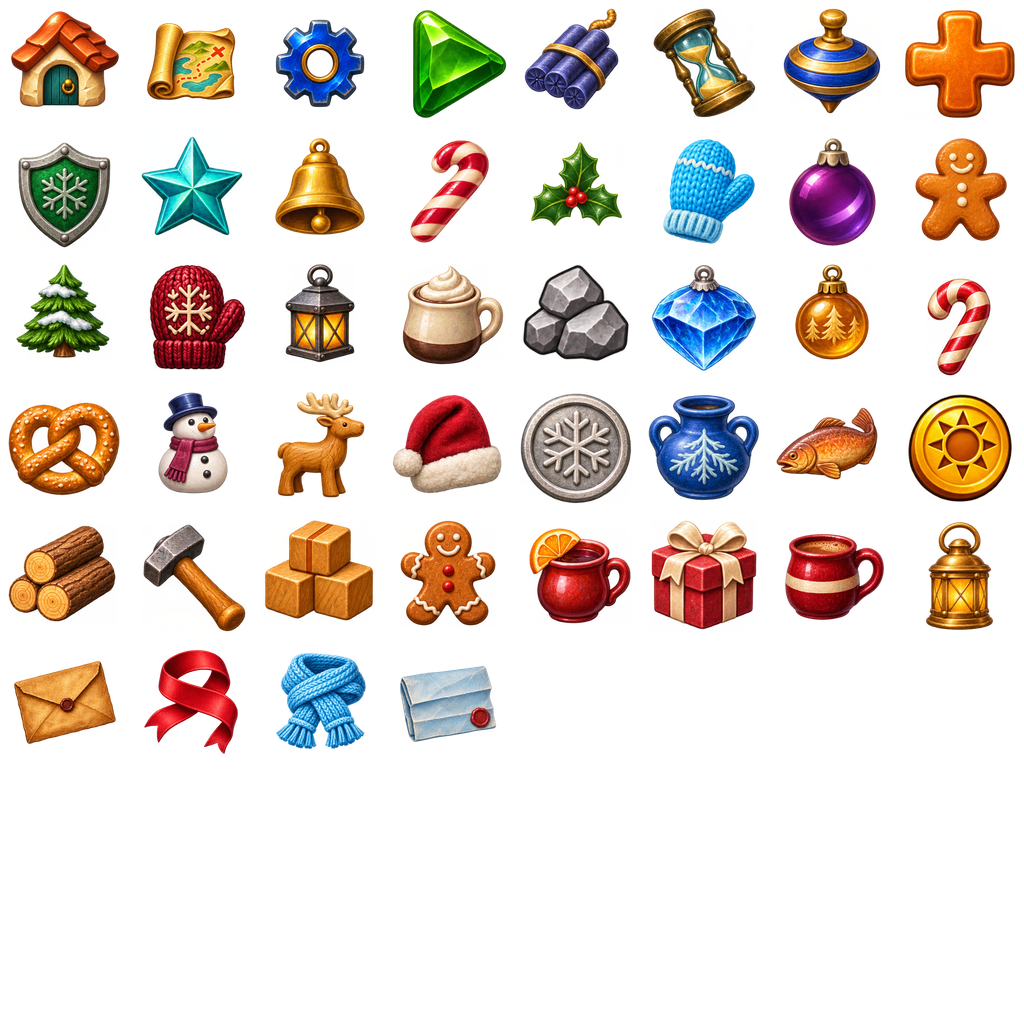
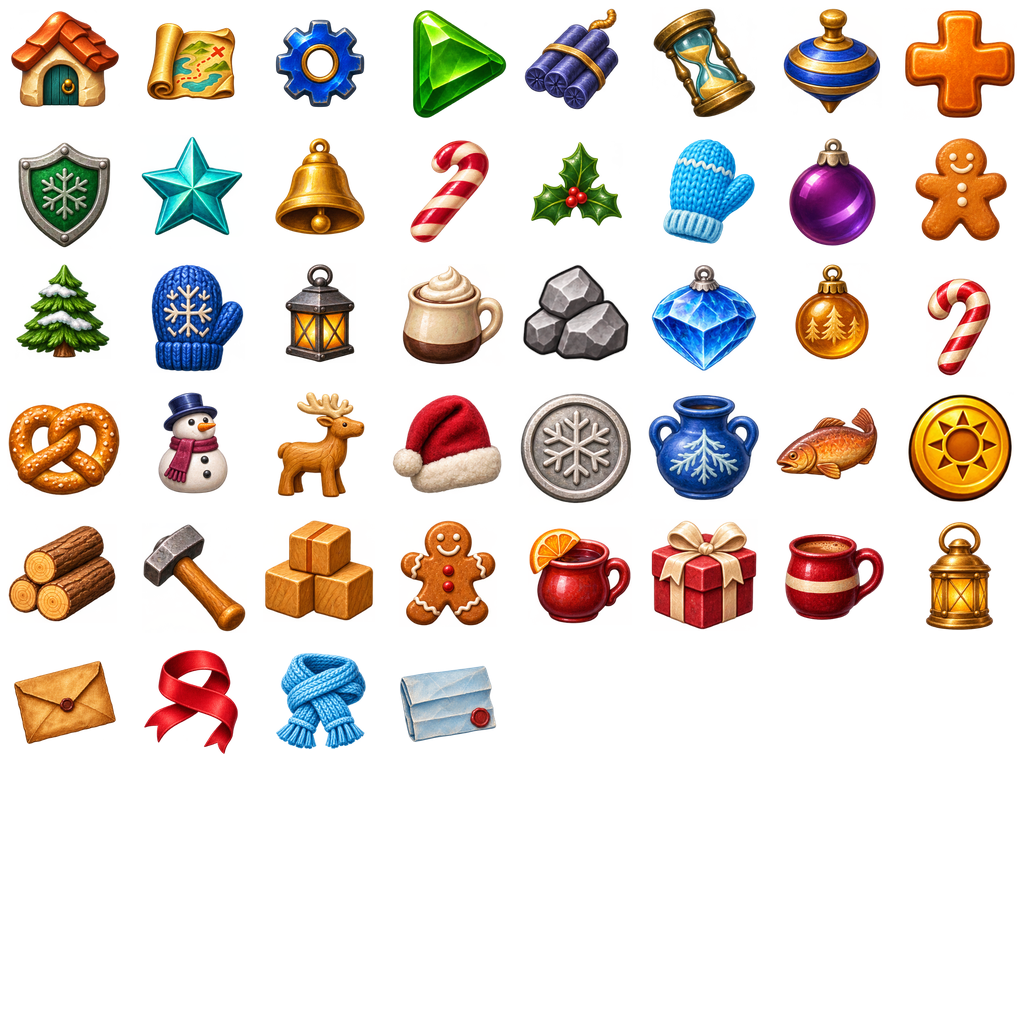
Restore the blue Christmas Market mitten

Changed region(s): [[0.125, 0.25, 0.25, 0.375]]

diff --git a/docs/cradle-of-rome-reference/gem-correspondence.html b/docs/cradle-of-rome-reference/gem-correspondence.html
@@ -179,7 +179,7 @@
 
   <section id="rome-2">
     <h2>Cradle of Rome 2</h2>
-    <p class="description">The sequel sets the purchase order and resource tiers. Christmas Market opens with a snowy fir, a cranberry mitten, silver and gold coins, and an ivory-striped candy cane for score. Mulled wine, gingerbread and cocoa take the cane’s slot in order. Natural pine and slate-gray masonry share the Materials slot. The masonry has the same silhouette as Relic Rush’s cut stone.</p>
+    <p class="description">The sequel sets the purchase order and resource tiers. Christmas Market opens with a snowy fir, a blue knitted mitten, silver and gold coins, and an ivory-striped candy cane for score. Mulled wine, gingerbread and cocoa take the cane’s slot in order. Natural pine and slate-gray masonry share the Materials slot. The masonry has the same silhouette as Relic Rush’s cut stone.</p>
     <div class="table-wrap">
       <table aria-label="Cradle of Rome 2 regular pieces">
         <thead><tr><th scope="col">Cradle of Rome 2</th><th scope="col">Relic Rush</th><th scope="col">Christmas Market</th><th scope="col">Relic Rush mapping</th></tr></thead>
@@ -191,10 +191,10 @@
             <td><span class="status same">Same motif</span><p>Both use a leaf as a score piece.</p></td>
           </tr>
           <tr class="comparison" data-status="same" data-rome-type="2">
-            <th scope="row"><div class="tile"><span class="icon rome" style="--col:1;--row:0" aria-hidden="true"></span><div><strong>Flower</strong><small>Score only · #02</small></div></div></th>
+            <th scope="row"><div class="tile"><span class="icon rome" style="--col:1;--row:0" aria-hidden="true"></span><div><strong>Blue flower</strong><small>Score only · #02</small></div></div></th>
             <td><div class="tile"><span class="icon relic" style="--col:4;--row:4" aria-hidden="true"></span><div><strong>Flower</strong><small>Score only · opening</small></div></div></td>
-            <td><div class="tile"><span class="icon market" style="--col:1;--row:0" aria-hidden="true"></span><div><strong>Knitted mitten</strong><small>Cranberry red · Score only</small><small>Opening</small></div></div></td>
-            <td><span class="status same">Same motif</span><p>Both use a flower as a score piece.</p></td>
+            <td><div class="tile"><span class="icon market" style="--col:1;--row:0" aria-hidden="true"></span><div><strong>Knitted mitten</strong><small>Blue wool · Score only</small><small>Opening</small></div></div></td>
+            <td><span class="status same">Same motif</span><p>Relic Rush keeps the flower. The blue mitten keeps its score role and color.</p></td>
           </tr>
           <tr class="comparison" data-status="same" data-rome-type="3">
             <th scope="row"><div class="tile"><span class="icon rome" style="--col:2;--row:0" aria-hidden="true"></span><div><strong>Silver coin</strong><small>3 Gold · #03</small></div></div></th>
@@ -212,7 +212,7 @@
             <th scope="row"><div class="tile"><span class="icon rome" style="--col:4;--row:0" aria-hidden="true"></span><div><strong>Water bucket</strong><small>3 Food · #05</small></div></div></th>
             <td><div class="tile"><span class="icon relic" style="--col:1;--row:1" aria-hidden="true"></span><div><strong>Water bucket</strong><small>3 Food · Well · exp. 2</small></div></div></td>
             <td><div class="tile"><span class="icon market" style="--col:0;--row:2" aria-hidden="true"></span><div><strong>Mulled wine (Glühwein)</strong><small>Cranberry · 3 Treats</small><small>Welcome arch · wish 2</small></div></div></td>
-            <td><span class="status same">Same motif</span><p>Same motif, yield and Well unlock.</p></td>
+            <td><span class="status same">Same motif</span><p>Relic Rush keeps the Well’s bucket. Christmas Market’s first purchase replaces the candy cane with mulled wine for 3 Treats.</p></td>
           </tr>
           <tr class="comparison" data-status="same" data-rome-type="6">
             <th scope="row"><div class="tile"><span class="icon rome" style="--col:5;--row:0" aria-hidden="true"></span><div><strong>Lumber</strong><small>5 Supplies · #06</small></div></div></th>
@@ -303,7 +303,7 @@
           <tr class="comparison" data-status="role" data-rome-type="2">
             <th scope="row"><div class="tile"><span class="icon rome" style="--col:1;--row:1" aria-hidden="true"></span><div><strong>Ladybug</strong><small>Score only · #02</small></div></div></th>
             <td><div class="tile"><span class="icon relic" style="--col:4;--row:4" aria-hidden="true"></span><div><strong>Flower</strong><small>Score only · opening</small></div></div></td>
-            <td><div class="tile"><span class="icon market" style="--col:1;--row:0" aria-hidden="true"></span><div><strong>Knitted mitten</strong><small>Cranberry red · Score only</small><small>Opening</small></div></div></td>
+            <td><div class="tile"><span class="icon market" style="--col:1;--row:0" aria-hidden="true"></span><div><strong>Knitted mitten</strong><small>Blue wool · Score only</small><small>Opening</small></div></div></td>
             <td><span class="status role">Role adapted</span><p>The beta’s field file calls it Flower. The sprite is a ladybug.</p></td>
           </tr>
           <tr class="comparison" data-status="same" data-rome-type="3">

diff --git a/games/christmas-market/docs/asset-catalogue.md b/games/christmas-market/docs/asset-catalogue.md
@@ -159,11 +159,11 @@ The [vase and winter catch atlas](../art/market-goods/vase-and-winter-catch.png)
 supplies the three-cracker Firework, broad ice pendant, cobalt vase and smoked trout.
 Its [ImageGen prompt](../art/market-goods/vase-and-winter-catch-prompt.txt)
 records the complete atlas edit. Only those four crops enter the registered sheet.
-The [cranberry mitten atlas](../art/market-goods/cranberry-mitten.png) keeps the
-square atlas layout and reauthors the mitten in cranberry wool with a cream
-snowflake. The [full ImageGen prompt](../art/market-goods/cranberry-mitten-prompt.txt)
-records the edit. The new crop registers into `market-1`.
-[Compare opening boards](market-pieces.md#red-mitten-review).
+`market-1` uses the blue knitted mitten from row one, column two of the
+winter stalls atlas. It reads separately from the red mulled wine after the
+Welcome arch. The [cranberry mitten atlas](../art/market-goods/cranberry-mitten.png)
+and its [prompt](../art/market-goods/cranberry-mitten-prompt.txt) document the
+earlier art pass. [Review both pieces in play](market-pieces.md#in-game-review).
 The gold Sun coin uses the first cell of the [Relic Rush campaign atlas](../../relic-rush/art/registered/campaign-pieces.png).
 The board, wallet, prices and results all use this shared artwork.
 [Compare the coin on the opening board and price card](market-pieces.md#shared-sun-coin-review).
@@ -176,7 +176,7 @@ Every center of opacity is within half a pixel of the slot center on both axes.
 | Atlas slot | Piece | Dominant color | Role |
 | ---: | --- | --- | --- |
 | 0 | Snow-dusted fir | Evergreen | Score at the opening. |
-| 1 | Knitted mitten | Cranberry red | Opening score piece until the stable. |
+| 1 | Knitted mitten | Blue with cream knitwork | Opening score piece until the stable. |
 | 2 | Silver snowflake coin | Silver | +3 Tokens. |
 | 3 | Sun coin | Gold | +5 Tokens and the Tokens wallet icon. Shared artwork with Relic Rush. |
 | 4 | Bundled pine | Chestnut brown | +5 Materials from the lumber workshop and the Materials wallet icon. |
@@ -204,7 +204,9 @@ Every center of opacity is within half a pixel of the slot center on both axes.
 | 26 | Winter vase | Cobalt glaze | Score only, from the stable until the Lumber workshop. |
 | 27 | Smoked trout | Russet | +7 Treats from the later sleigh. |
 
-`art/registered/market-goods.png` packs into `data/board/pieces.png` as
+`python3 games/christmas-market/tools/prepare_market_goods.py` registers the
+source crops. `python3 tools/match3_atlas.py` packs `art/registered/market-goods.png`
+into `data/board/pieces.png` as
 `market-0` through `market-21` and six named `booster-*-icon` frames. Each base
 sprite is used for idle, swap and clear, with the game's selection and hint
 overlays and authored tinsel and ice. The eight charging pieces each sit on

diff --git a/games/christmas-market/docs/market-pieces.md b/games/christmas-market/docs/market-pieces.md
@@ -6,10 +6,13 @@ Market. Bellmere uses three wallet slots in save order: **Tokens**, **Treats**
 and **Materials**. Sun coins, cocoa and bundled pine identify those
 totals on the board, in town, and in prices and results.
 
-The opening has five kinds: a green snowy fir, a cranberry knitted mitten,
-a silver snowflake coin, a gold Sun coin and an ivory-striped candy cane.
-The mitten has opaque red wool and a cream snowflake. Mulled wine takes the candy
-cane's place. The bakery's brown gingerbread man and the kiosk's ivory cocoa
+The opening has a green snowy fir, a blue knitted mitten, a silver snowflake
+coin, a gold Sun coin and a red-and-ivory candy cane. The first four echo the
+green leaf, blue flower, silver coin and gold coin in the GameTop Windows
+release of Cradle of Rome 2. Its first purchase adds a water bucket worth 3
+Food. In Christmas Market, the Welcome arch replaces the candy cane with red
+mulled wine worth 3 Treats. The blue mitten distinguishes the score piece from
+the wine. The bakery's brown gingerbread man and the kiosk's ivory cocoa
 mug follow in the same Treats slot. The stable brings a cobalt vase for score,
 which replaces the mitten. The lumber workshop brings natural pine, which takes that slot. The
 chapel replaces it with the same slate-gray dressed stone used in Relic Rush.
@@ -49,6 +52,11 @@ gate can buy it from the shop.
 
 ## In-game review
 
+| After the Welcome arch | Board |
+| --- | --- |
+| 480 × 900 | [Blue mitten and mulled wine](screenshots/review/blue-mitten/board-480.jpg) |
+| 390 × 844 | [Blue mitten and mulled wine](screenshots/review/blue-mitten/board-390.jpg) |
+
 | Board | Before | After |
 | --- | --- | --- |
 | 480 × 900 | [Mitten](screenshots/review/winter-stalls/board-480.jpg) | [Winter vase](screenshots/review/rome-coverage/vase-480.jpg) |
@@ -65,7 +73,7 @@ gate can buy it from the shop.
 [Spent bonus](screenshots/review/winter-stalls/spent.jpg) ·
 [Registration and prompts](asset-catalogue.md#market-goods-and-tools)
 
-## Red mitten review
+## Earlier red mitten review
 
 | Opening board | Before | After |
 | --- | --- | --- |
